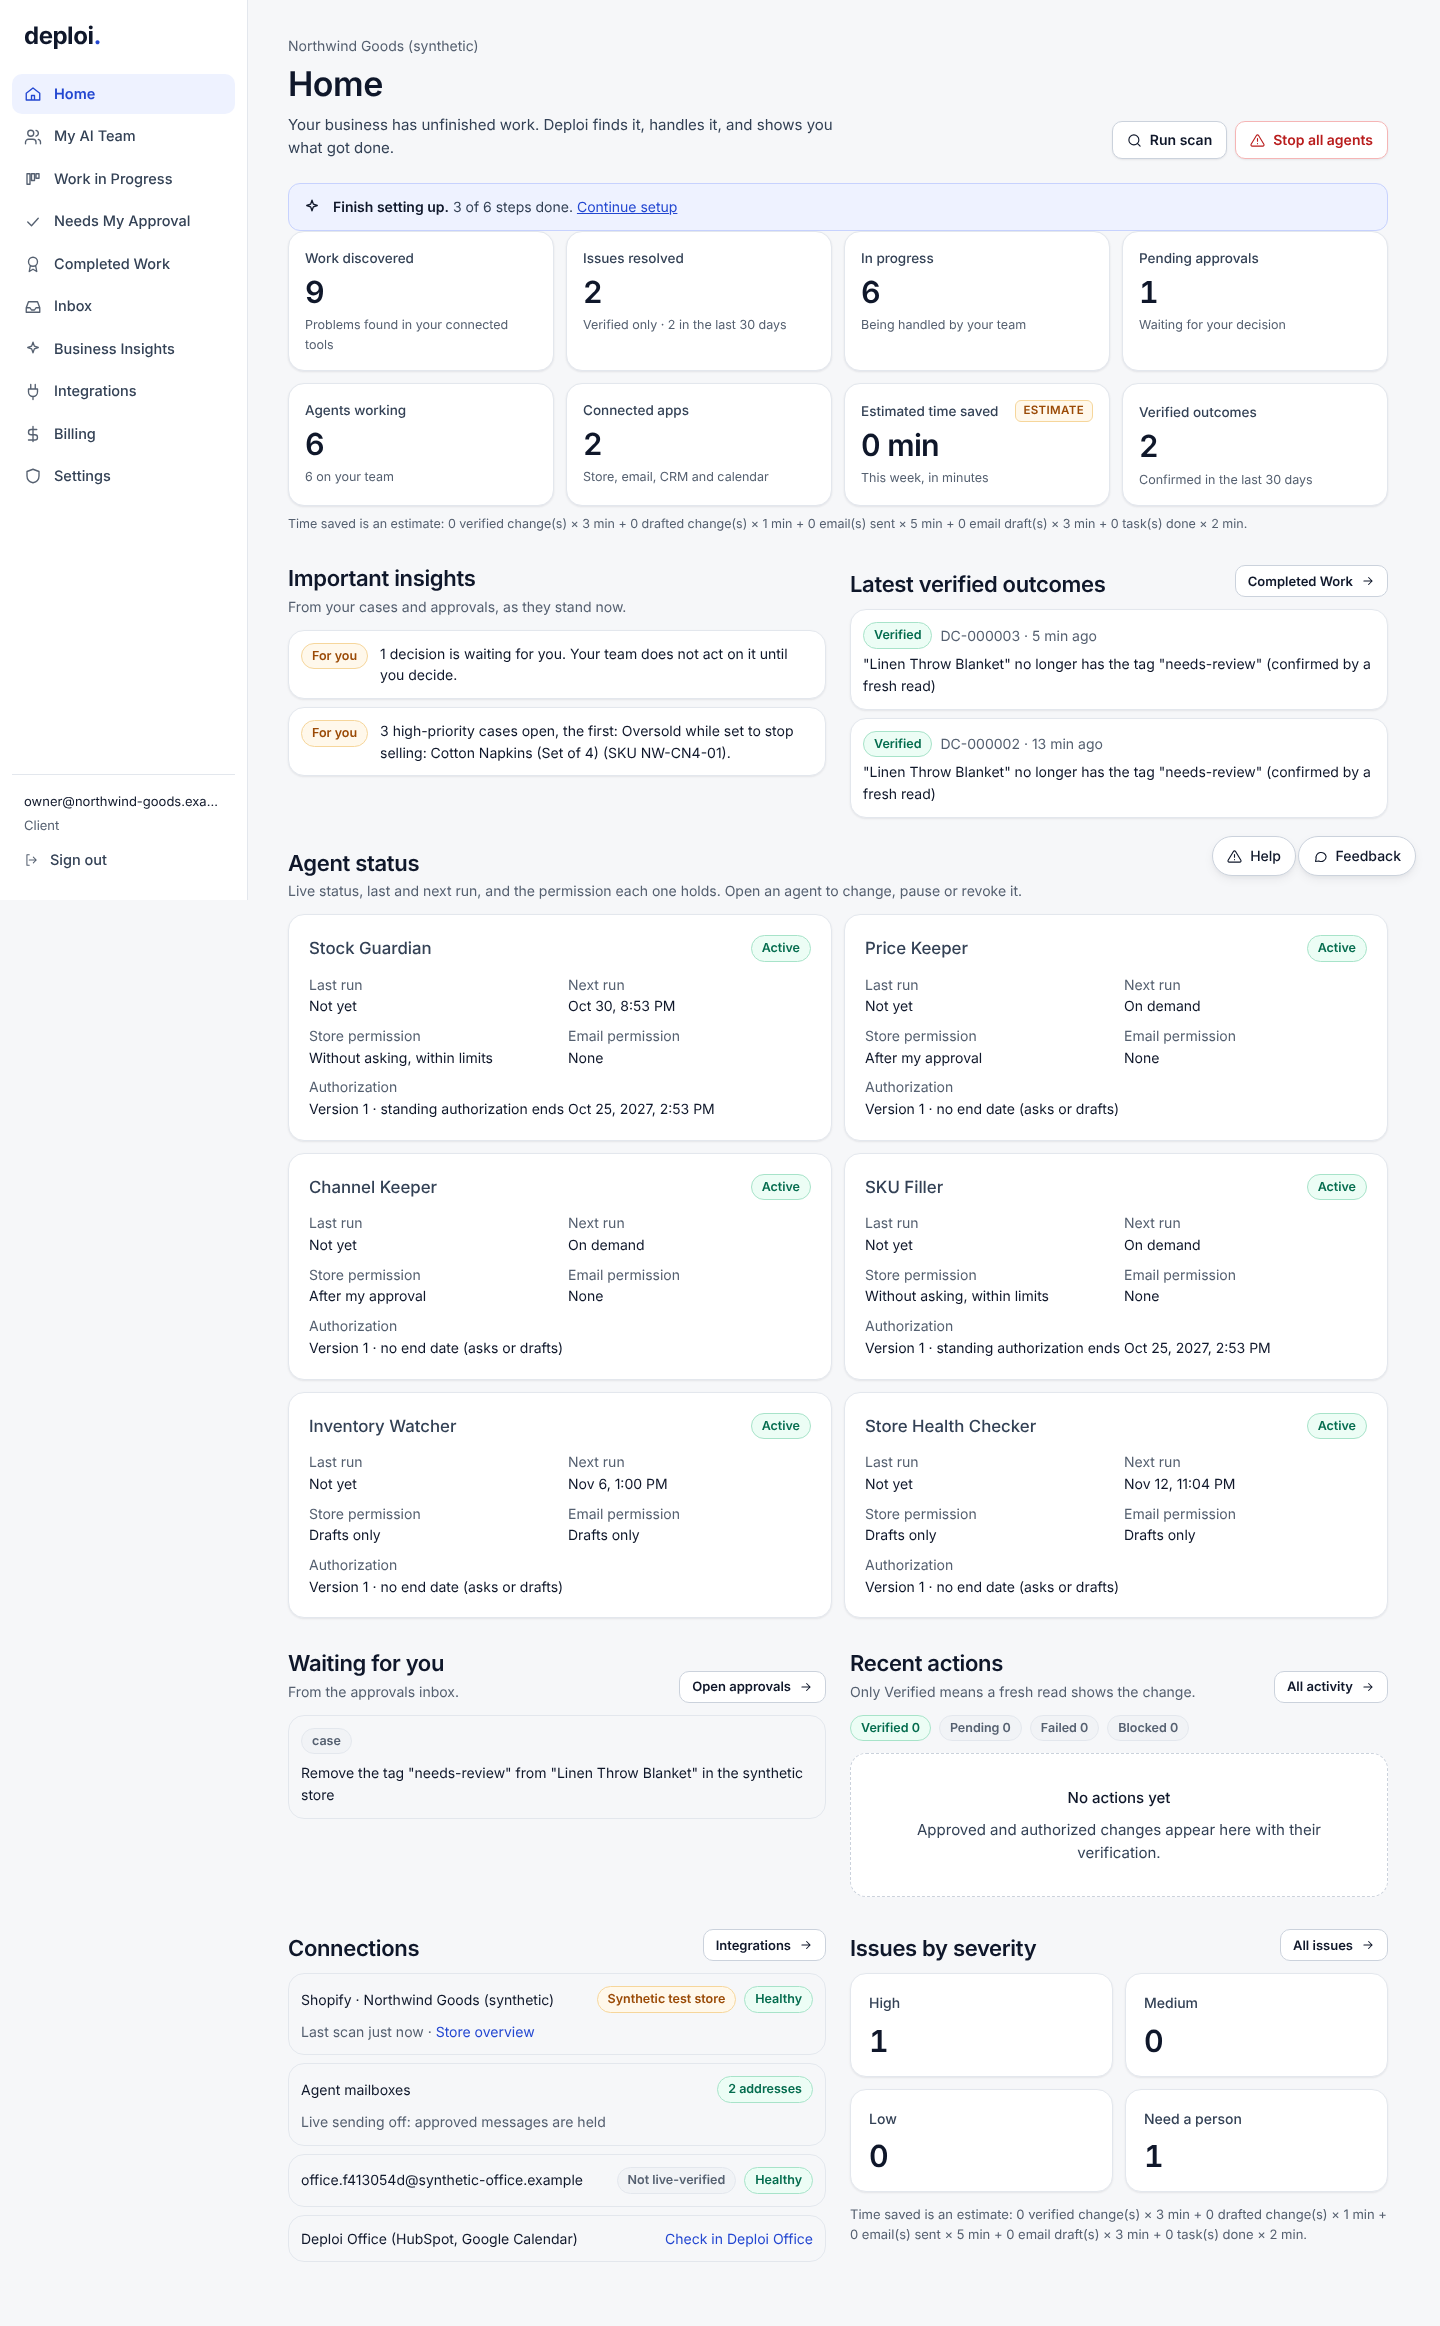
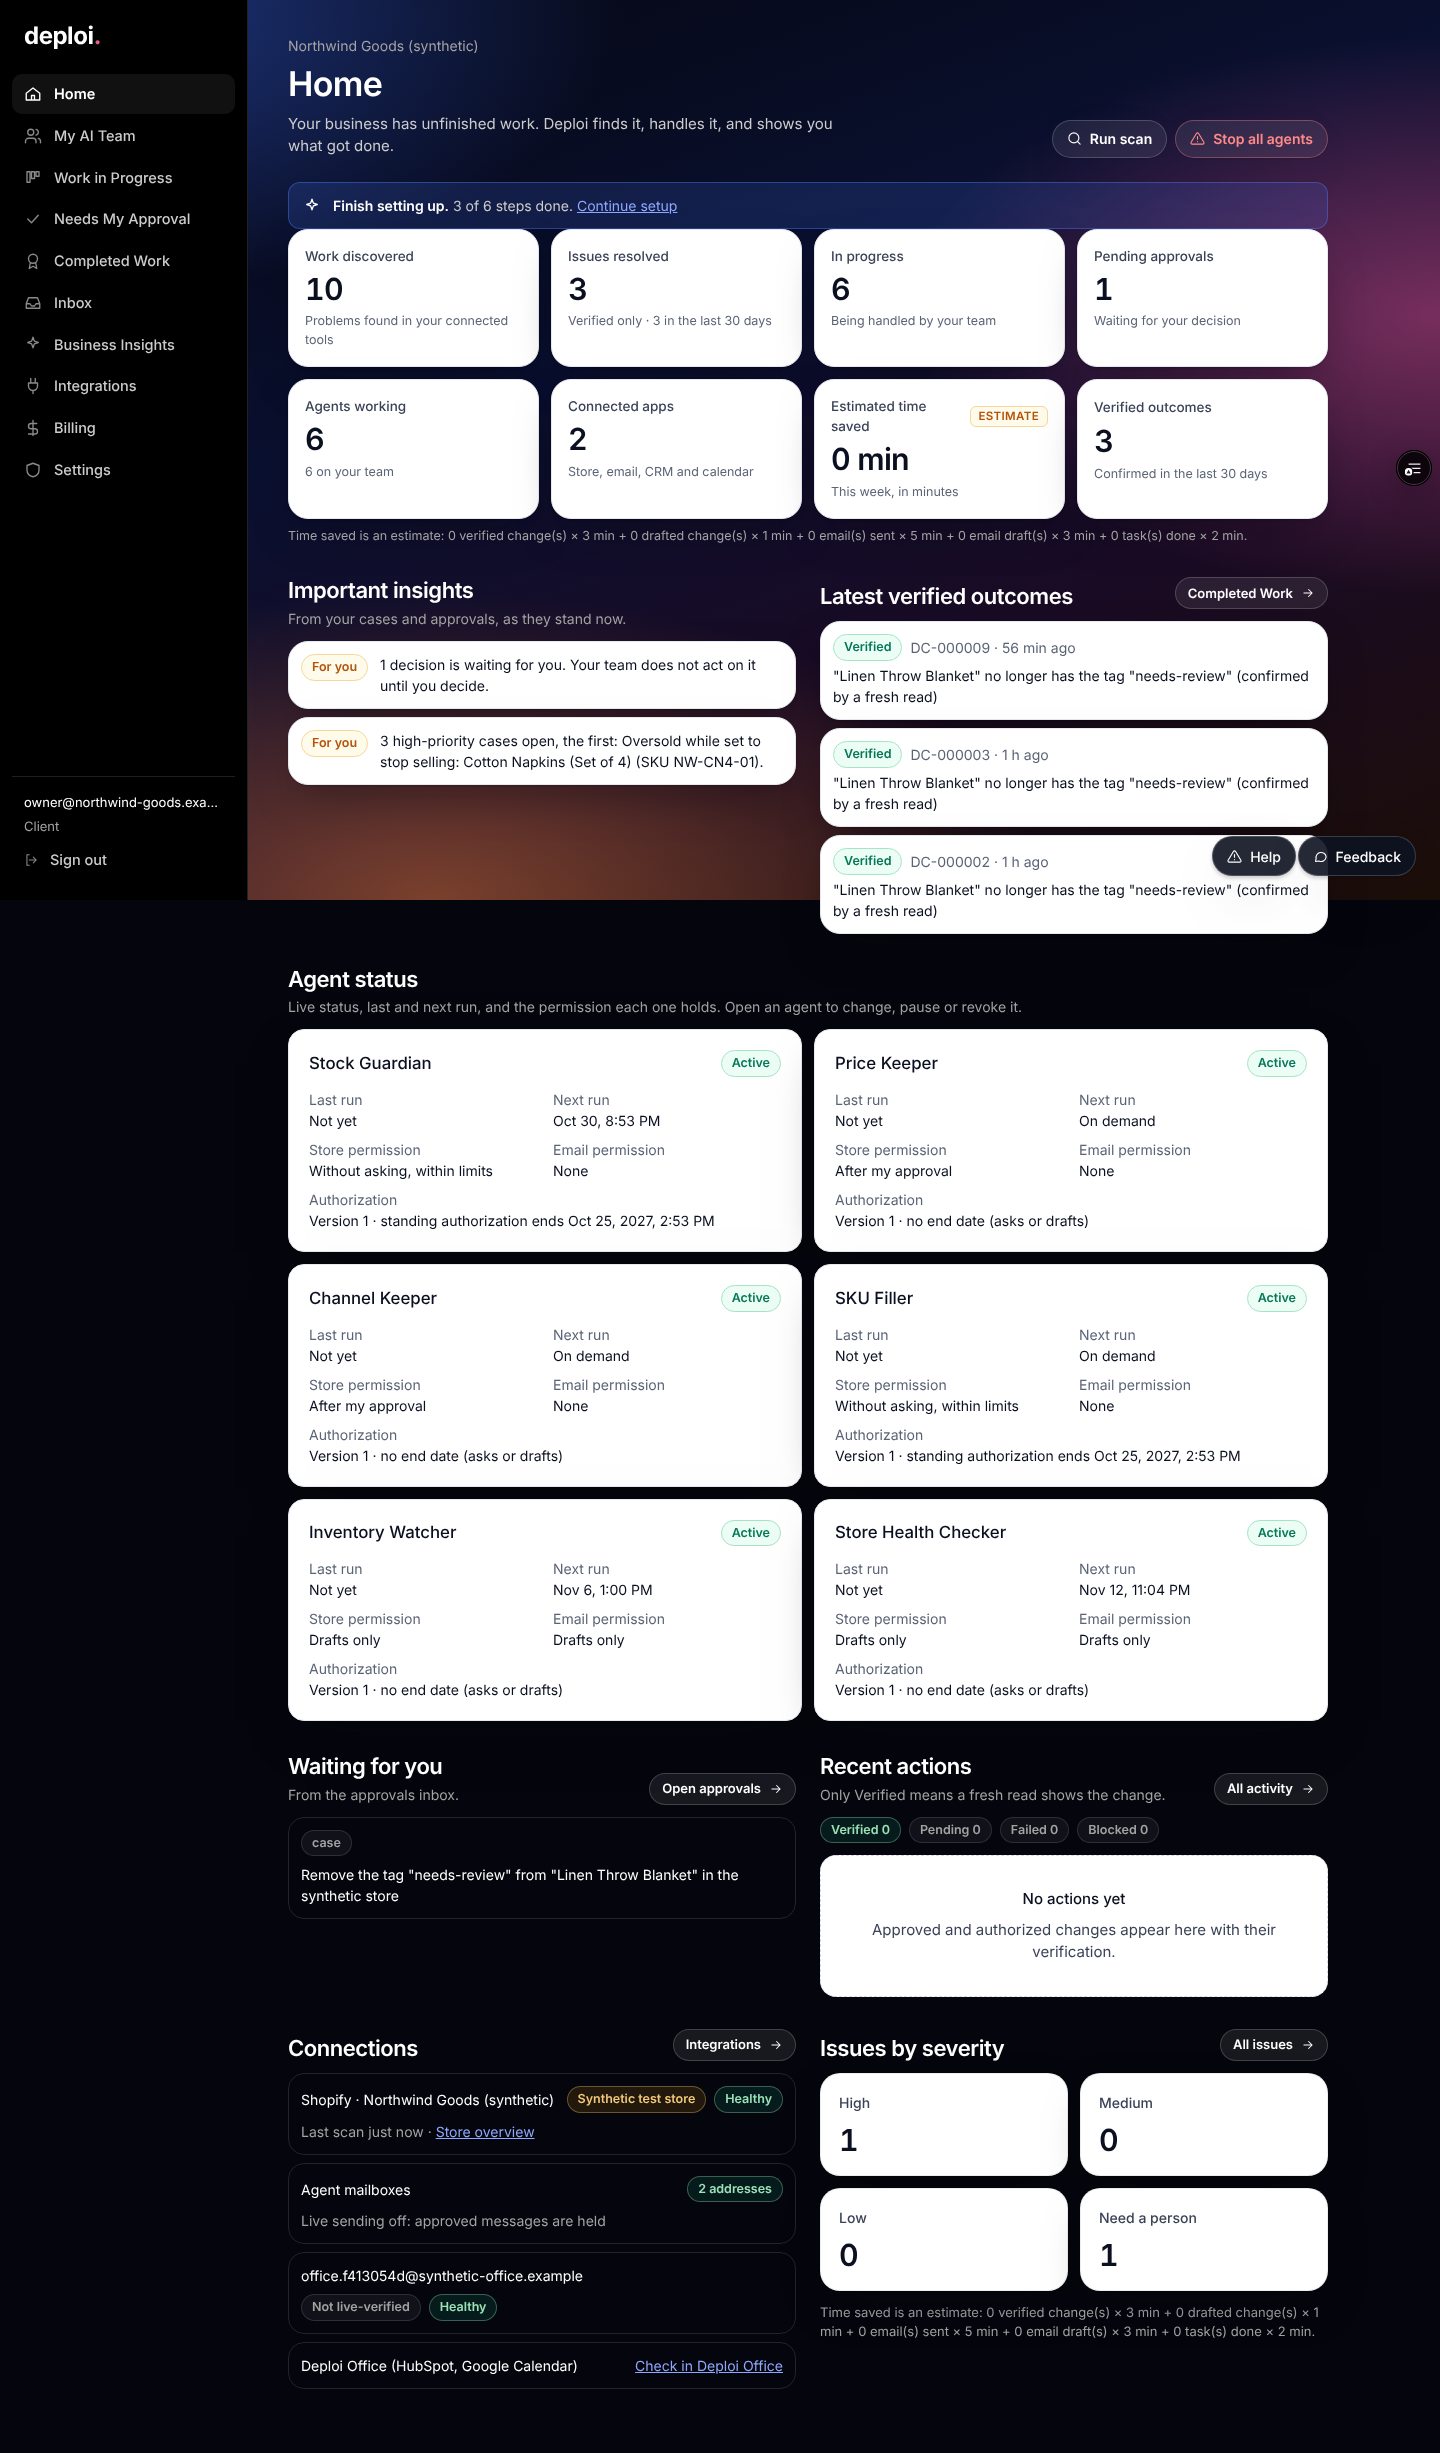
Readiness: Aurora v2 restored on PR #16, side-by-side screenshots against main, browser checks
Claude-Session: https://claude.ai/code/session_01Bb4ST1W8NiaUfYaBJNhLGr

diff --git a/deploi-app/docs/READINESS-2026-11-05.md b/deploi-app/docs/READINESS-2026-11-05.md
@@ -323,3 +323,71 @@ The goal was a working PR #16 preview with demo data. **Production was not touch
   - In the next release, lower `max` for serverless (2–3) and set a short `idleTimeoutMillis`, so idle function instances don't hold connections.
 
 **Production after this pass:** `dpl_9B3Xf6FmBfnvBqNVhqPBQywDPvYd` (commit e7d2b6c), with the same 9 production-scoped variable names.
+
+### 8.8 Aurora v2 restored on PR #16 (2026-11-05 23:30 – 2026-11-06 00:45 UTC)
+
+**Reference.** Aurora v2 as shipped on `main` at commit `396a159`. The Oct 29 mockup zip never reached the session, so it couldn't be used. The `claude/aurora-agent-library` branch was **not** merged, and no Aurora v1 value was brought back.
+
+**What changed** (commits `b727b9d`, `a21c41b`, `dc5fa61`):
+- `deploi-app/styles/tokens.css` is again byte-identical to the shared `styles/tokens.css`, which is unchanged from `main`'s v2 file.
+- **New shared layer, `styles/aurora.css`**, with a verbatim copy in `deploi-app/styles/`. It maps the `--c-*` names every PR #16 screen uses onto Aurora v2 in two contexts:
+  - **the ground:** the night sky (`--au-ground` lit by `--au-glow`), the black navigation, light text;
+  - **surfaces:** white panels and cards with dark text, using the v2 panel values (`#0B1020`, `#3A4256`, `#5B6476`, `#F5F6FA`, …).
+- **Website.** `src/styles.css` drops its light `:root` block and imports the same two files, so the app and the site use one set of Aurora v2 tokens.
+- **App.**
+  - Primary buttons are white on the ground and dark inside white cards, with pill-shaped corners (v2).
+  - The rail is black; the top and bottom bars are dark glass.
+  - `.metal` is the dark v2 brushed card again (sign-in); stat tiles (`metal tile`) stay white.
+- **Pre-existing bug fixed.** The base `a { color: inherit }` rule sat outside Tailwind's cascade layers, so it beat every colour utility on a link. The light theme hid this; on the dark ground it turned agent names on the Home cards light grey. The rule now sits in `@layer base`.
+- **Unchanged:** navigation, Home, cases, approvals, first run, F-02, the discovery code and every API.
+- **New test** `tests/cx/aurora-tokens.test.ts` (3 tests): the copies must be identical, the v2 values present, and neither the app nor the site may declare a light page or the v1 ground colour.
+
+**Tests.**
+- **Before** (`c846168`, fresh run): 956/956 passing, 134 files.
+- **After** (`dc5fa61`, fresh test database): 959/959 passing, 135 files.
+- One run after the session restart showed 6 failures in `tests/plans/enforcement.test.ts`. The untouched baseline code failed identically on that same database (`6 failed | 8 passed`), so the cause was leftover local test-database state, not this change. After recreating the test database, the suite passes in full.
+- The billing-notice test now clears pending notices it doesn't own (it was order-dependent).
+- Typecheck clean; lint 0 errors; app and website production builds succeed; forbidden-name scan clean.
+
+**Previews.**
+- App: `dpl_CShvRjfzaUY5FVVZicqYKh4nBbDN`, commit `dc5fa61`, READY.
+- Website: `dpl_DYmQCrkfbgYvBELVCxinUmKHLXzJ`, commit `dc5fa61`, READY.
+
+**Side-by-side screenshots** in `proof/aurora-v2-pr16/` (left: v2 on `main`; right: the PR #16 preview; 1440 and 390 px):
+
+| Pair | Files |
+|---|---|
+| Website home | `01-site-home-*` |
+| Website agents | `02-site-agents-*` |
+| Website pricing | `03-site-pricing-*` |
+| App sign-in | `04-app-landing-*` |
+| App Home | `05-roster-*` |
+| My AI Team | `05b-my-team-*` |
+| Agent page | `06-agent-dashboard-*` |
+| Needs My Approval | `07-approvals-*` |
+
+**Where the build doesn't match v2:**
+- **Layout and copy that PR #16 changed on purpose, kept as instructed.** Home shows stat tiles and agent status cards instead of the v2 bot roster with switches. The agent page shows authorization, tasks, mailbox and work log instead of v2's chat, approvals and activity tabs. The website's navigation and copy are new, and its headlines are left-aligned and white, not v2's centred grey/white two-tone.
+- **Wordmark.** The app sidebar reads "deploi." (the PR #16 rename); v2 reads "deploi ai". Sign-in still shows "deploi ai".
+- **Inputs on the dark sign-in card** are dark glass with a faint border; v2 used black with a white border.
+- **Ground text colours.** On the dark ground, body text uses `--dg-grey-nav` (#CCCCCC) and secondary text `--dg-grey-body` (#A3A3A3); v2 used #A3A3A3 and #8A8A8A. The lighter steps keep contrast at 4.5:1 or better over the glow.
+- **Accent on the ground** is #8FA8FF instead of `--dg-accent` (#4D7CFF), for contrast on the glow. This is the only colour not taken from a v2 token.
+- **Screenshot artefacts, on both sides:** the glow is fixed to the viewport, so full-page captures show it only at the top; at 390 px the fixed bars appear mid-page.
+
+**The 9 browser checks** (`dpl_CShvRjfzaUY5FVVZicqYKh4nBbDN`; screenshots in `proof/preview-pr16/`): **7 pass, 2 fail.**
+
+| Check | Result |
+|---|---|
+| 1 Demo sign-in | PASS |
+| 3 Demo data | PASS |
+| 3b Harbor sees only its own organization | PASS |
+| 4 Control Room | PASS |
+| 5 AI Team | FAIL: `getByTestId('team')` doesn't contain "Accounts Receivable" |
+| 6 Approve → Completed Work, verified | PASS |
+| 7 Inbox | PASS |
+| 8 Integrations | PASS |
+| 9 Agent workflow | FAIL: "an Accounts Receivable agent set up by the AI Team check", Received `undefined` |
+
+Both failures are the discovery defect recorded in 8.7 (an existing Office agent drops out of the recommended team when discovery runs again). They are unrelated to the theme and occur exactly as before the theme change.
+
+**Production (read-only, after):** deployment `dpl_9B3Xf6FmBfnvBqNVhqPBQywDPvYd` (e7d2b6c), with the same 9 production-scoped variable names. Nothing in production was changed.
